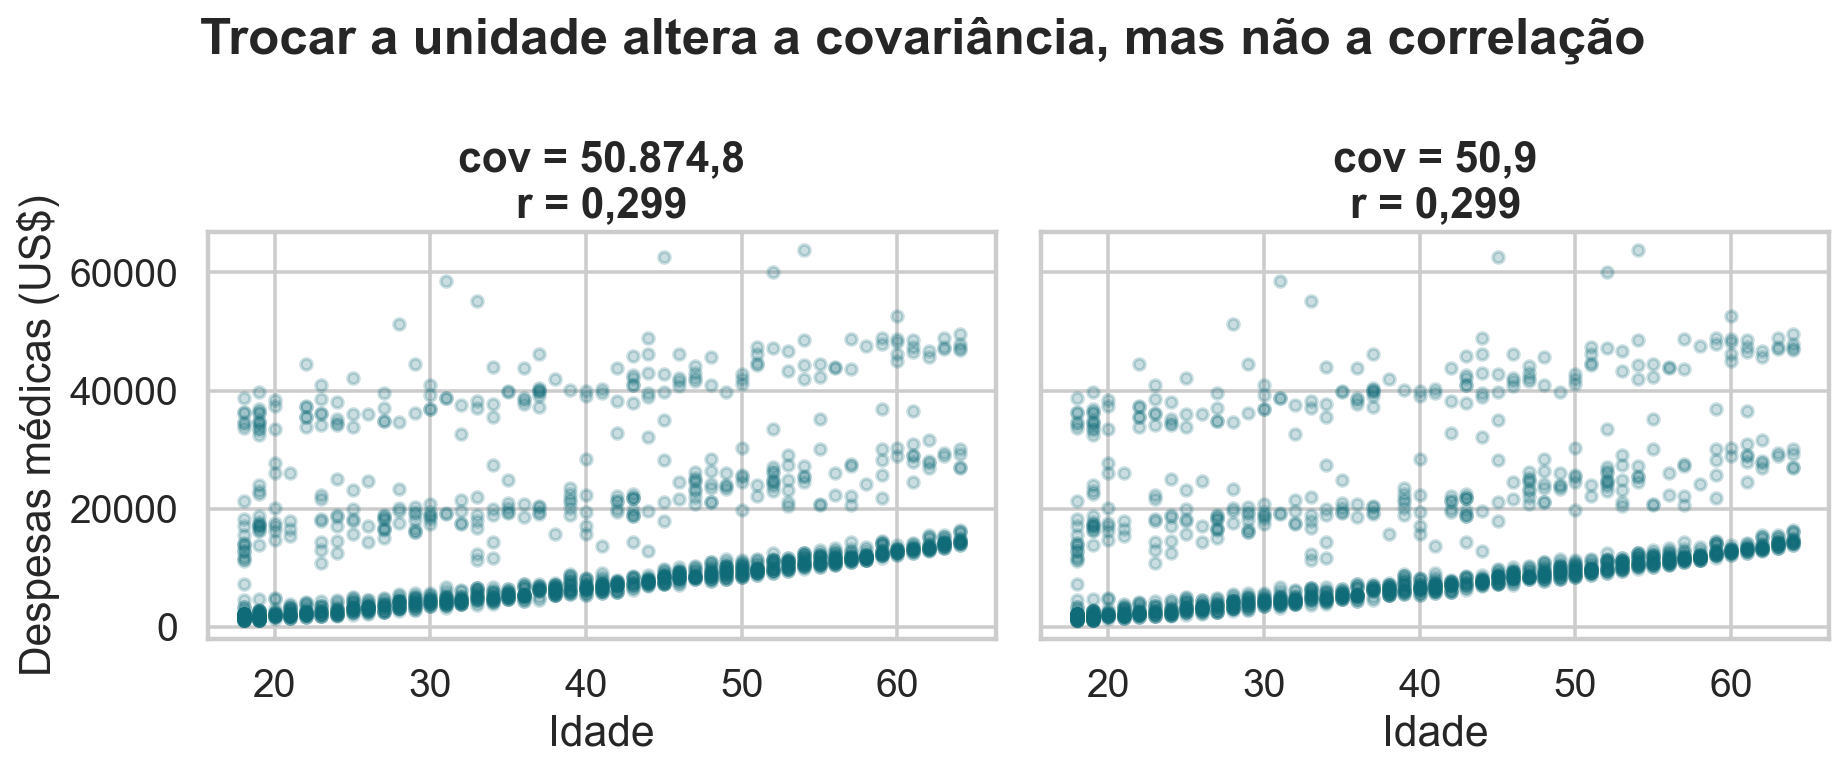
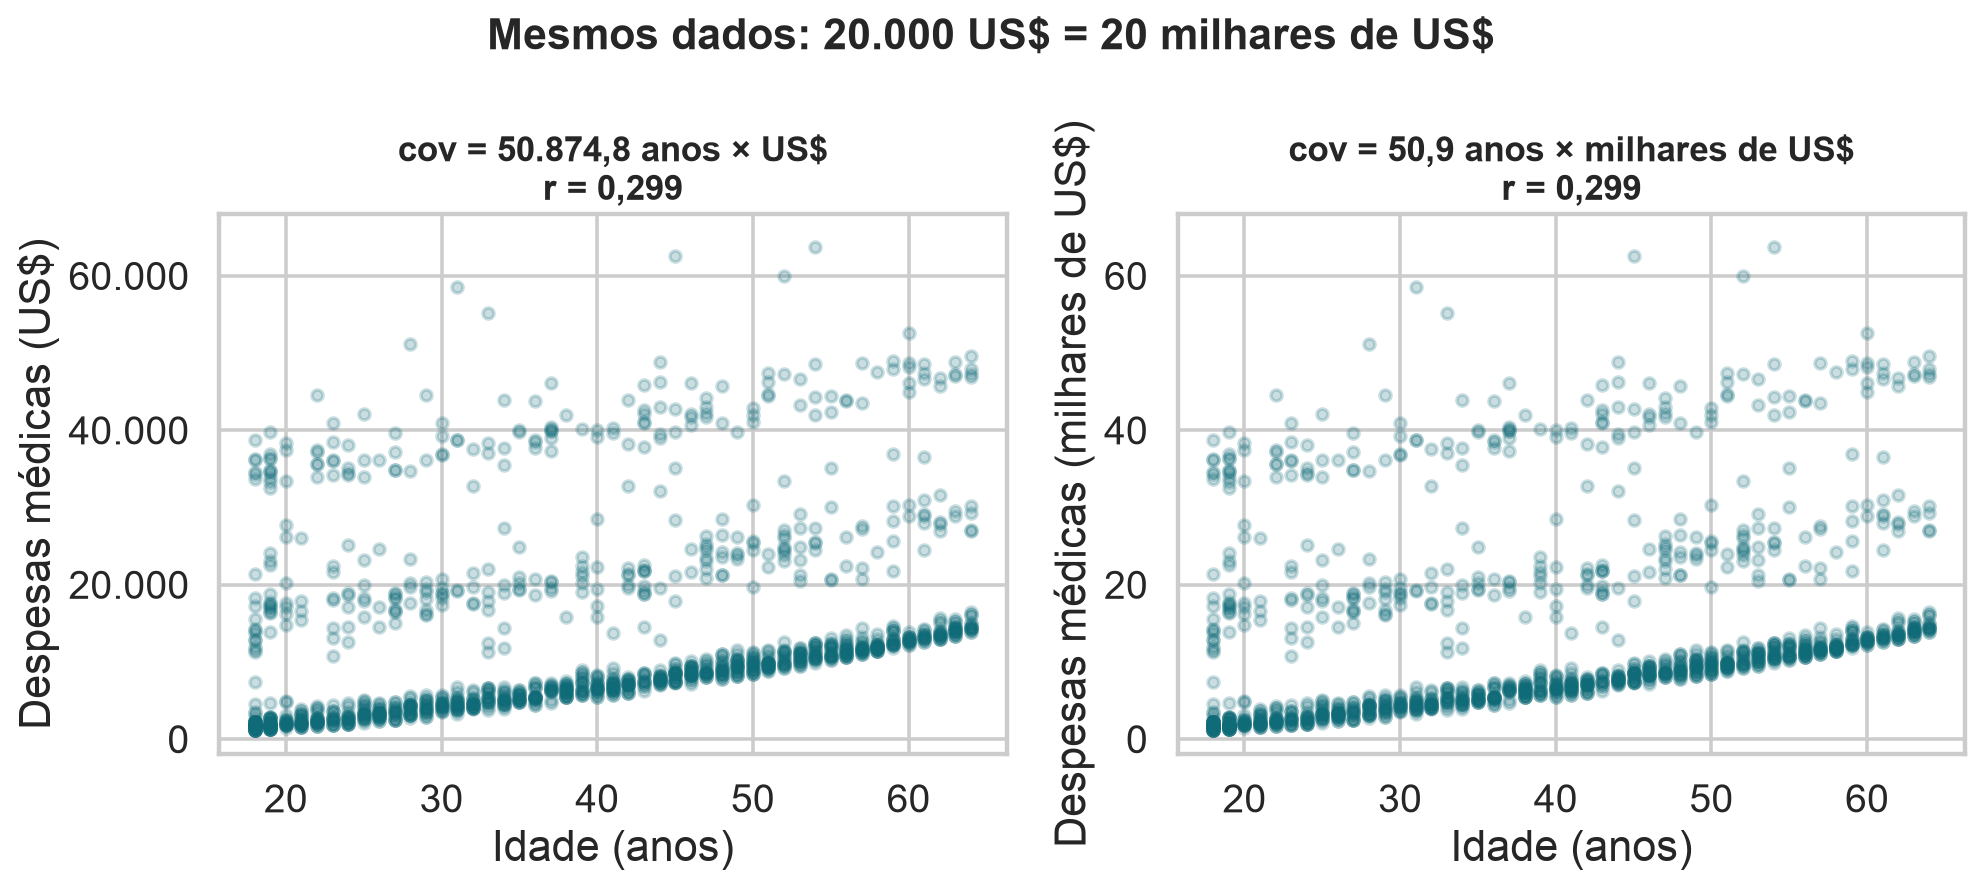
Corrige unidades e melhora transicao dos exemplos da Aula 16

Changed region(s): [[0.0, 0.1245, 1.0, 0.9961], [0.0926, 0.0, 0.8954, 0.0934]]

diff --git a/exemplos/16-correlacao/generate_figures.py b/exemplos/16-correlacao/generate_figures.py
@@ -102,13 +102,19 @@ finish("quadrantes-covariancia-v2.png")
 cov_usd = np.cov(df.age, df.charges, ddof=1)[0, 1]
 cov_k = np.cov(df.age, df.charges/1000, ddof=1)[0, 1]
 r = df.age.corr(df.charges)
-fig, axes = plt.subplots(1, 2, figsize=(11.2, 4.7), sharey=True)
+fig, axes = plt.subplots(1, 2, figsize=(12, 5.4))
 for ax, yy, label, cov in [(axes[0], df.charges, "US$", cov_usd), (axes[1], df.charges/1000, "milhares de US$", cov_k)]:
-    ax.scatter(df.age, yy if label == "US$" else yy*1000, color=BLUE, alpha=.22, s=22)
-    ax.set_xlabel("Idade")
-    ax.set_title(f"cov = {cov:,.1f}\nr = {r:.3f}".replace(",", "X").replace(".", ",").replace("X", "."))
-axes[0].set_ylabel("Despesas médicas (US$)")
-fig.suptitle("Trocar a unidade altera a covariância, mas não a correlação", fontweight="bold")
+    ax.scatter(df.age, yy, color=BLUE, alpha=.22, s=22)
+    ax.set_xlabel("Idade (anos)")
+    ax.set_ylabel(f"Despesas médicas ({label})")
+    factor = 1 if label == "US$" else 1000
+    ax.set_ylim(-2000/factor, 68000/factor)
+    ticks = np.arange(0, 60001, 20000)/factor
+    ax.set_yticks(ticks, [f"{v:,.0f}".replace(",", ".") for v in ticks])
+    cov_text = f"{cov:,.1f}".replace(",", "X").replace(".", ",").replace("X", ".")
+    r_text = f"{r:.3f}".replace(".", ",")
+    ax.set_title(f"cov = {cov_text} anos × {label}\nr = {r_text}", fontsize=15)
+fig.suptitle("Mesmos dados: 20.000 US$ = 20 milhares de US$", fontweight="bold", fontsize=18, parse_math=False)
 finish("escala-cov-cor.png")
 
 # 5. Dados padronizados e interpretação geométrica.
